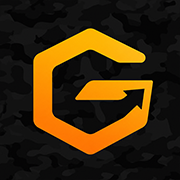
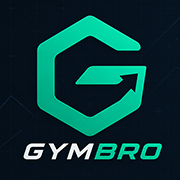
Updates

diff --git a/sw.js b/sw.js
@@ -1,1 +1,1 @@
-if(!self.define){let e,n={};const s=(s,i)=>(s=new URL(s+".js",i).href,n[s]||new Promise(n=>{if("document"in self){const e=document.createElement("script");e.src=s,e.onload=n,document.head.appendChild(e)}else e=s,importScripts(s),n()}).then(()=>{let e=n[s];if(!e)throw new Error(`Module ${s} didn’t register its module`);return e}));self.define=(i,o)=>{const r=e||("document"in self?document.currentScript.src:"")||location.href;if(n[r])return;let c={};const t=e=>s(e,r),a={module:{uri:r},exports:c,require:t};n[r]=Promise.all(i.map(e=>a[e]||t(e))).then(e=>(o(...e),c))}}define(["./workbox-e4022e15"],function(e){"use strict";self.skipWaiting(),e.clientsClaim(),e.precacheAndRoute([{url:"registerSW.js",revision:"a073289e179ea191a1f15aee82c28d90"},{url:"index.html",revision:"3a220f3dea8952c5478ffdd71504b42d"},{url:"icons/icon-512.png",revision:"d970a2d15e62fd3173010db84627c6e6"},{url:"icons/icon-192.png",revision:"36312ccbfdf8e9e4cfacbc6e81c3d87c"},{url:"icons/apple-touch-icon.png",revision:"8938cf3c8ff5448aaae169b18e9577ea"},{url:"assets/Logo.png",revision:null},{url:"assets/index-CR44JRUL.css",revision:null},{url:"assets/index-Ck4lkp1G.js",revision:null},{url:"manifest.webmanifest",revision:"ea7b82a788e5a924c6384a067eb679a2"}],{}),e.cleanupOutdatedCaches(),e.registerRoute(new e.NavigationRoute(e.createHandlerBoundToURL("index.html"))),e.registerRoute(/^https:\/\/.*\.supabase\.co\/.*/i,new e.NetworkFirst({cacheName:"supabase-cache",networkTimeoutSeconds:10,plugins:[new e.ExpirationPlugin({maxEntries:50,maxAgeSeconds:86400})]}),"GET")});
+if(!self.define){let e,n={};const s=(s,i)=>(s=new URL(s+".js",i).href,n[s]||new Promise(n=>{if("document"in self){const e=document.createElement("script");e.src=s,e.onload=n,document.head.appendChild(e)}else e=s,importScripts(s),n()}).then(()=>{let e=n[s];if(!e)throw new Error(`Module ${s} didn’t register its module`);return e}));self.define=(i,o)=>{const r=e||("document"in self?document.currentScript.src:"")||location.href;if(n[r])return;let t={};const c=e=>s(e,r),l={module:{uri:r},exports:t,require:c};n[r]=Promise.all(i.map(e=>l[e]||c(e))).then(e=>(o(...e),t))}}define(["./workbox-e4022e15"],function(e){"use strict";self.skipWaiting(),e.clientsClaim(),e.precacheAndRoute([{url:"registerSW.js",revision:"a073289e179ea191a1f15aee82c28d90"},{url:"index.html",revision:"3a220f3dea8952c5478ffdd71504b42d"},{url:"icons/icon-512.png",revision:"a704d1fd606d3b8b4177bfa2ccc894b1"},{url:"icons/icon-192.png",revision:"5e4f2350758d12a2b698bf897293b4fc"},{url:"icons/apple-touch-icon.png",revision:"2cdb4c283f550f7b212542ee6ef16b21"},{url:"assets/Logo.png",revision:null},{url:"assets/index-CR44JRUL.css",revision:null},{url:"assets/index-Ck4lkp1G.js",revision:null},{url:"manifest.webmanifest",revision:"ea7b82a788e5a924c6384a067eb679a2"}],{}),e.cleanupOutdatedCaches(),e.registerRoute(new e.NavigationRoute(e.createHandlerBoundToURL("index.html"))),e.registerRoute(/^https:\/\/.*\.supabase\.co\/.*/i,new e.NetworkFirst({cacheName:"supabase-cache",networkTimeoutSeconds:10,plugins:[new e.ExpirationPlugin({maxEntries:50,maxAgeSeconds:86400})]}),"GET")});
